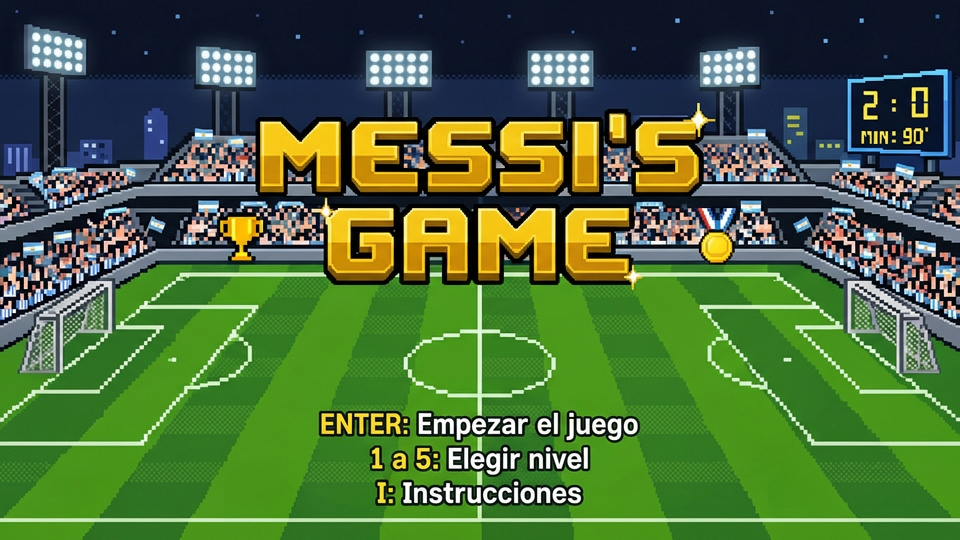
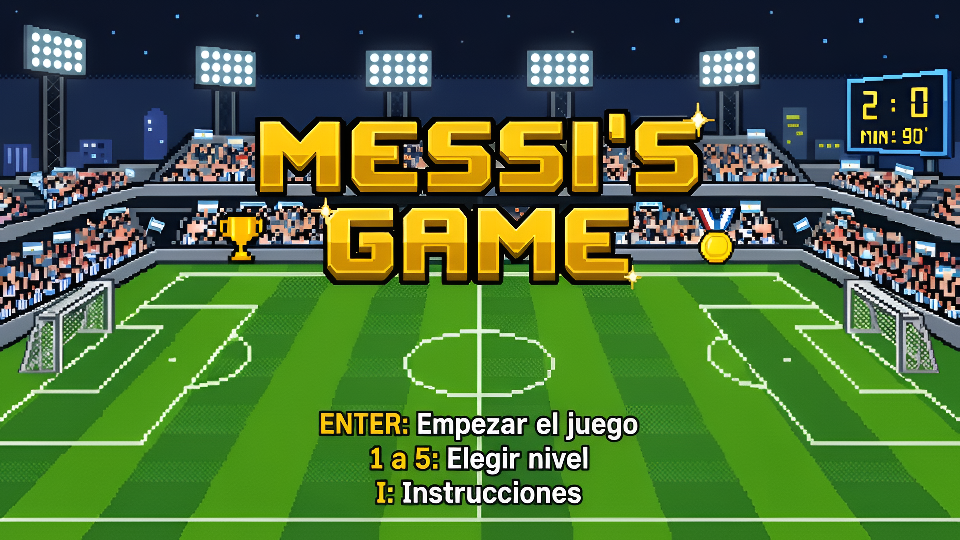
Se realizan mejoras visuales y se actualiza README

diff --git a/README.md b/README.md
@@ -1,8 +1,8 @@
 # Messi Game
 
-![Pantalla de inicio de Messi Game](assets/pantallaMenu_normal.png)
+![Pantalla de inicio de Messi Game](assets/pantallaMenu.png)
 
-Juego de tipo arcade en pixel art hecho con **Wollok Game**. Controlás a Messi y atrapás objetos que caen para subir (o bajar) su **barra emocional**. Si llega al 100% ganás; si llega a 0% perdés.
+Juego de tipo arcade en pixel art hecho con **Wollok Game** que recorre la carrera de Messi en la Selección a lo largo de **5 niveles**. Controlás a Messi y atrapás objetos que caen: los buenos suben su **barra emocional** y los malos la bajan. Con la barra vacía perdés el nivel; llenarla (o cumplir el objetivo del último nivel) te hace avanzar.
 
 🎮 **Jugar online:** [Jugar ahora](https://rhornamasias.github.io/messi-game/)
 
@@ -17,29 +17,40 @@ Juego de tipo arcade en pixel art hecho con **Wollok Game**. Controlás a Messi 
 
 ## Cómo se juega
 
-Messi se mueve de izquierda a derecha en la parte baja de la pantalla, mientras desde arriba caen objetos. Cada uno que atrapás modifica la barra emocional:
+Messi se mueve de izquierda a derecha en la parte baja de la pantalla, mientras desde arriba caen objetos.
 
 | Tipo | Ejemplos | Efecto |
 |------|----------|--------|
-| Buenos | Gol, Copa América, Camiseta 10, Copa del Mundo | Suben la barra |
-| Malos | Tarjeta roja, Crítica, Final perdida, Sancor Seguros | Bajan la barra |
+| Buenos | Gol, Copa América, Camiseta 10, Copa del Mundo, entre otros | Suben la barra |
+| Malos | Tarjeta roja, Crítica, Final perdida, Sancor Seguros,entre otros | Bajan la barra |
 
-La barra empieza en 50% y su valor cambia el estado emocional de Messi, que a su vez cambia el modo de juego:
+- Cada nivel arranca con la barra al 50%. Si llega a **0%**, perdés y podés reintentar el nivel.
+- Si **dejás caer** un objeto bueno sin atraparlo, la barra baja un 1%.
+- El valor de la barra define el estado emocional de Messi:
+  - **Gloria** (barra alta): Messi se mueve más rápido y los objetos caen más lento.
+  - **Estable** (barra media).
+  - **Crisis** (barra baja): Messi se mueve más lento, los objetos caen más rápido y predominan los malos.
+- A medida que avanzás de nivel, el juego se vuelve más difícil.
 
-- **Gloria** (barra alta): Messi se mueve más rápido y los objetos caen más lento.
-- **Estable** (barra media).
-- **Crisis** (barra baja): Messi se mueve más lento, los objetos caen más rápido y predominan los objetos malos.
+### Niveles
 
-Hay dos dificultades (Normal y Difícil), que modifican los umbrales, las velocidades y los objetos que caen.
+| Nivel | Época | Objetivo |
+|-------|-------|----------|
+| 1 | Debut y primeros años | Llenar la barra |
+| 2 | Mundial Sudáfrica 2010 | Llenar la barra |
+| 3 | Mundial Brasil 2014 | Llenar la barra |
+| 4 | Años de crisis y dolor | Llenar la barra |
+| 5 | Coronación de gloria | Juntar las 3 copas del mundo (1978, 1986 y 2022). Las copas solo aparecen en estado de gloria |
 
 ### Controles
 
 | Tecla | Acción |
 |-------|--------|
 | ← / → | Mover a Messi |
-| 1 / 2 | Elegir dificultad (en el menú) |
-| Enter | Iniciar el juego |
-| M | Volver al menú |
+| Enter | Empezar desde el nivel 1, empezar un nivel, pasar al siguiente o reintentar |
+| 1 a 5 | Elegir nivel (en el menú) |
+| I | Ver las instrucciones (en el menú) |
+| M | Volver al menú (en cualquier pantalla; también sale de las instrucciones) |
 
 ## Cómo ejecutarlo localmente
 
@@ -52,8 +63,11 @@ Hay dos dificultades (Normal y Difícil), que modifican los umbrales, las veloci
 
 El código aplica los conceptos del paradigma de objetos:
 
-- **Polimorfismo:** Messi atrapa cualquier recolectable sin saber cuál es; cada uno define su efecto y su sonido. Las dificultades también responden a los mismos mensajes (`crisis`, `estable`, `gloria`).
-- **Delegación:** la barra emocional decide el estado de Messi, y el estado define la velocidad de caída, el cooldown y qué objetos aparecen.
+- **Polimorfismo:** 
+  - *Niveles:* `nivel1` a `nivel5` responden a los mismos mensajes (`crisis`, `estable`, `gloria` y sus datos), y la partida los trata a todos igual.
+- *Objetivos:* `ObjetivoLlenarBarra` y `ObjetivoJuntarCopas` responden a `seCumplio`, `recolectado` y `reiniciar`. La partida no pregunta en qué nivel está: le pregunta al objetivo si se cumplió.
+  - *Recolectables:* cada tipo define su sonido, si es una copa del mundo y qué pasa cuando cae al piso (`alCaerAlPiso`: los buenos restan a la barra, los malos no hacen nada).  
+- **Delegación:** la barra emocional avisa a la partida cuando se pierde y le pasa el estado a Messi; el nivel define cómo es cada estado (cooldown, velocidad de caída, objetos posibles); el objetivo decide cuándo se gana.
 - **Encapsulamiento:** cada objeto protege su estado y expone solo mensajes del dominio. La barra emocional guarda su porcentaje internamente y solo se modifica con `modificarPorcentaje` (y `reiniciar`), que lo mantiene entre 0% y 100% y actualiza el estado de Messi. Messi controla su propia posición: solo se mueve con `moverseALaIzquierda` y `moverseALaDerecha`, que respetan los bordes del tablero y el cooldown. 
 
 ## Licencia
